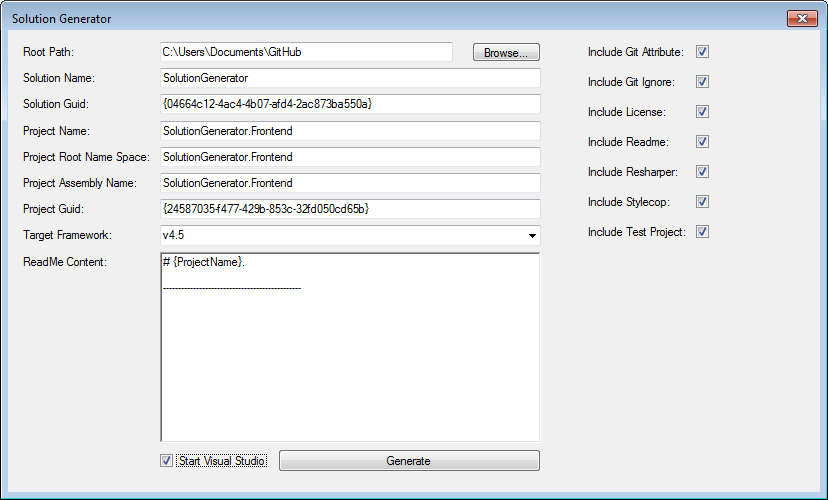
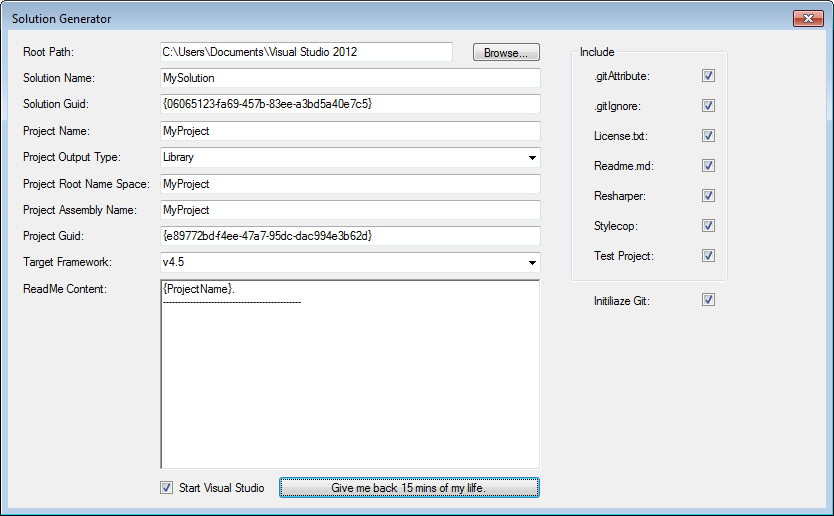
Changed position project type  + new img

diff --git a/src/SolutionGenerator.Frontend/GeneratorForm.Designer.cs b/src/SolutionGenerator.Frontend/GeneratorForm.Designer.cs
@@ -73,8 +73,8 @@ namespace SolutionGenerator.Frontend
             this.targetFrameworkComboBox = new System.Windows.Forms.ComboBox();
             this.groupBox1 = new System.Windows.Forms.GroupBox();
             this.initiliazeGitCheckBox = new System.Windows.Forms.CheckBox();
-            this.solutionModelBindingSource = new System.Windows.Forms.BindingSource(this.components);
             this.projectOutputTypeComboBox = new System.Windows.Forms.ComboBox();
+            this.solutionModelBindingSource = new System.Windows.Forms.BindingSource(this.components);
             projectAssemblyNameLabel = new System.Windows.Forms.Label();
             projectGuidLabel = new System.Windows.Forms.Label();
             projectNameLabel = new System.Windows.Forms.Label();
@@ -101,7 +101,7 @@ namespace SolutionGenerator.Frontend
             // projectAssemblyNameLabel
             // 
             projectAssemblyNameLabel.AutoSize = true;
-            projectAssemblyNameLabel.Location = new System.Drawing.Point(12, 146);
+            projectAssemblyNameLabel.Location = new System.Drawing.Point(12, 173);
             projectAssemblyNameLabel.Name = "projectAssemblyNameLabel";
             projectAssemblyNameLabel.Size = new System.Drawing.Size(121, 13);
             projectAssemblyNameLabel.TabIndex = 0;
@@ -111,7 +111,7 @@ namespace SolutionGenerator.Frontend
             // projectGuidLabel
             // 
             projectGuidLabel.AutoSize = true;
-            projectGuidLabel.Location = new System.Drawing.Point(12, 172);
+            projectGuidLabel.Location = new System.Drawing.Point(12, 199);
             projectGuidLabel.Name = "projectGuidLabel";
             projectGuidLabel.Size = new System.Drawing.Size(68, 13);
             projectGuidLabel.TabIndex = 2;
@@ -132,7 +132,7 @@ namespace SolutionGenerator.Frontend
             // projectRootNameSpaceLabel
             // 
             projectRootNameSpaceLabel.AutoSize = true;
-            projectRootNameSpaceLabel.Location = new System.Drawing.Point(12, 120);
+            projectRootNameSpaceLabel.Location = new System.Drawing.Point(12, 147);
             projectRootNameSpaceLabel.Name = "projectRootNameSpaceLabel";
             projectRootNameSpaceLabel.Size = new System.Drawing.Size(134, 13);
             projectRootNameSpaceLabel.TabIndex = 6;
@@ -249,24 +249,42 @@ namespace SolutionGenerator.Frontend
             // targetFrameworkLabel1
             // 
             targetFrameworkLabel1.AutoSize = true;
-            targetFrameworkLabel1.Location = new System.Drawing.Point(12, 198);
+            targetFrameworkLabel1.Location = new System.Drawing.Point(12, 225);
             targetFrameworkLabel1.Name = "targetFrameworkLabel1";
             targetFrameworkLabel1.Size = new System.Drawing.Size(96, 13);
             targetFrameworkLabel1.TabIndex = 35;
             targetFrameworkLabel1.Text = "Target Framework:";
             // 
+            // initiliazeGitLabel
+            // 
+            initiliazeGitLabel.AutoSize = true;
+            initiliazeGitLabel.Location = new System.Drawing.Point(583, 264);
+            initiliazeGitLabel.Name = "initiliazeGitLabel";
+            initiliazeGitLabel.Size = new System.Drawing.Size(63, 13);
+            initiliazeGitLabel.TabIndex = 37;
+            initiliazeGitLabel.Text = "Initiliaze Git:";
+            // 
+            // projectOutputTypeLabel
+            // 
+            projectOutputTypeLabel.AutoSize = true;
+            projectOutputTypeLabel.Location = new System.Drawing.Point(12, 120);
+            projectOutputTypeLabel.Name = "projectOutputTypeLabel";
+            projectOutputTypeLabel.Size = new System.Drawing.Size(105, 13);
+            projectOutputTypeLabel.TabIndex = 38;
+            projectOutputTypeLabel.Text = "Project Output Type:";
+            // 
             // projectAssemblyNameTextBox
             // 
             this.projectAssemblyNameTextBox.DataBindings.Add(new System.Windows.Forms.Binding("Text", this.solutionModelBindingSource, "ProjectAssemblyName", true));
-            this.projectAssemblyNameTextBox.Location = new System.Drawing.Point(152, 143);
+            this.projectAssemblyNameTextBox.Location = new System.Drawing.Point(152, 170);
             this.projectAssemblyNameTextBox.Name = "projectAssemblyNameTextBox";
             this.projectAssemblyNameTextBox.Size = new System.Drawing.Size(381, 20);
-            this.projectAssemblyNameTextBox.TabIndex = 5;
+            this.projectAssemblyNameTextBox.TabIndex = 6;
             // 
             // projectGuidTextBox
             // 
             this.projectGuidTextBox.DataBindings.Add(new System.Windows.Forms.Binding("Text", this.solutionModelBindingSource, "ProjectGuid", true));
-            this.projectGuidTextBox.Location = new System.Drawing.Point(152, 169);
+            this.projectGuidTextBox.Location = new System.Drawing.Point(152, 196);
             this.projectGuidTextBox.Name = "projectGuidTextBox";
             this.projectGuidTextBox.Size = new System.Drawing.Size(381, 20);
             this.projectGuidTextBox.TabIndex = 17;
@@ -282,10 +300,10 @@ namespace SolutionGenerator.Frontend
             // projectRootNameSpaceTextBox
             // 
             this.projectRootNameSpaceTextBox.DataBindings.Add(new System.Windows.Forms.Binding("Text", this.solutionModelBindingSource, "ProjectRootNameSpace", true));
-            this.projectRootNameSpaceTextBox.Location = new System.Drawing.Point(152, 117);
+            this.projectRootNameSpaceTextBox.Location = new System.Drawing.Point(152, 144);
             this.projectRootNameSpaceTextBox.Name = "projectRootNameSpaceTextBox";
             this.projectRootNameSpaceTextBox.Size = new System.Drawing.Size(381, 20);
-            this.projectRootNameSpaceTextBox.TabIndex = 4;
+            this.projectRootNameSpaceTextBox.TabIndex = 5;
             // 
             // rootPathTextBox
             // 
@@ -316,7 +334,7 @@ namespace SolutionGenerator.Frontend
             this.btnGenerate.Location = new System.Drawing.Point(270, 446);
             this.btnGenerate.Name = "btnGenerate";
             this.btnGenerate.Size = new System.Drawing.Size(263, 23);
-            this.btnGenerate.TabIndex = 9;
+            this.btnGenerate.TabIndex = 10;
             this.btnGenerate.Text = "Give me back 15 mins of my lilfe.";
             this.btnGenerate.UseVisualStyleBackColor = true;
             this.btnGenerate.Click += new System.EventHandler(this.BtnGenerateClick);
@@ -347,7 +365,7 @@ namespace SolutionGenerator.Frontend
             this.readmeRichTextBox.Location = new System.Drawing.Point(152, 249);
             this.readmeRichTextBox.Name = "readmeRichTextBox";
             this.readmeRichTextBox.Size = new System.Drawing.Size(381, 191);
-            this.readmeRichTextBox.TabIndex = 7;
+            this.readmeRichTextBox.TabIndex = 8;
             this.readmeRichTextBox.Text = "";
             // 
             // chkStartVisualStudio
@@ -356,7 +374,7 @@ namespace SolutionGenerator.Frontend
             this.chkStartVisualStudio.Location = new System.Drawing.Point(152, 450);
             this.chkStartVisualStudio.Name = "chkStartVisualStudio";
             this.chkStartVisualStudio.Size = new System.Drawing.Size(112, 17);
-            this.chkStartVisualStudio.TabIndex = 8;
+            this.chkStartVisualStudio.TabIndex = 9;
             this.chkStartVisualStudio.Text = "Start Visual Studio";
             this.chkStartVisualStudio.UseVisualStyleBackColor = true;
             // 
@@ -366,7 +384,7 @@ namespace SolutionGenerator.Frontend
             this.includeGitAttributeCheckBox.Location = new System.Drawing.Point(131, 19);
             this.includeGitAttributeCheckBox.Name = "includeGitAttributeCheckBox";
             this.includeGitAttributeCheckBox.Size = new System.Drawing.Size(21, 24);
-            this.includeGitAttributeCheckBox.TabIndex = 22;
+            this.includeGitAttributeCheckBox.TabIndex = 0;
             this.includeGitAttributeCheckBox.UseVisualStyleBackColor = true;
             // 
             // includeGitIgnoreCheckBox
@@ -375,7 +393,7 @@ namespace SolutionGenerator.Frontend
             this.includeGitIgnoreCheckBox.Location = new System.Drawing.Point(131, 49);
             this.includeGitIgnoreCheckBox.Name = "includeGitIgnoreCheckBox";
             this.includeGitIgnoreCheckBox.Size = new System.Drawing.Size(21, 24);
-            this.includeGitIgnoreCheckBox.TabIndex = 24;
+            this.includeGitIgnoreCheckBox.TabIndex = 1;
             this.includeGitIgnoreCheckBox.UseVisualStyleBackColor = true;
             // 
             // includeLicenseCheckBox
@@ -384,7 +402,7 @@ namespace SolutionGenerator.Frontend
             this.includeLicenseCheckBox.Location = new System.Drawing.Point(131, 79);
             this.includeLicenseCheckBox.Name = "includeLicenseCheckBox";
             this.includeLicenseCheckBox.Size = new System.Drawing.Size(21, 24);
-            this.includeLicenseCheckBox.TabIndex = 26;
+            this.includeLicenseCheckBox.TabIndex = 2;
             this.includeLicenseCheckBox.UseVisualStyleBackColor = true;
             // 
             // includeReadmeCheckBox
@@ -393,7 +411,7 @@ namespace SolutionGenerator.Frontend
             this.includeReadmeCheckBox.Location = new System.Drawing.Point(131, 109);
             this.includeReadmeCheckBox.Name = "includeReadmeCheckBox";
             this.includeReadmeCheckBox.Size = new System.Drawing.Size(21, 24);
-            this.includeReadmeCheckBox.TabIndex = 28;
+            this.includeReadmeCheckBox.TabIndex = 3;
             this.includeReadmeCheckBox.UseVisualStyleBackColor = true;
             // 
             // includeResharperCheckBox
@@ -402,7 +420,7 @@ namespace SolutionGenerator.Frontend
             this.includeResharperCheckBox.Location = new System.Drawing.Point(131, 139);
             this.includeResharperCheckBox.Name = "includeResharperCheckBox";
             this.includeResharperCheckBox.Size = new System.Drawing.Size(21, 24);
-            this.includeResharperCheckBox.TabIndex = 30;
+            this.includeResharperCheckBox.TabIndex = 4;
             this.includeResharperCheckBox.UseVisualStyleBackColor = true;
             // 
             // includeStylecopCheckBox
@@ -411,7 +429,7 @@ namespace SolutionGenerator.Frontend
             this.includeStylecopCheckBox.Location = new System.Drawing.Point(131, 169);
             this.includeStylecopCheckBox.Name = "includeStylecopCheckBox";
             this.includeStylecopCheckBox.Size = new System.Drawing.Size(21, 24);
-            this.includeStylecopCheckBox.TabIndex = 32;
+            this.includeStylecopCheckBox.TabIndex = 5;
             this.includeStylecopCheckBox.UseVisualStyleBackColor = true;
             // 
             // includeTestProjectCheckBox
@@ -420,7 +438,7 @@ namespace SolutionGenerator.Frontend
             this.includeTestProjectCheckBox.Location = new System.Drawing.Point(131, 199);
             this.includeTestProjectCheckBox.Name = "includeTestProjectCheckBox";
             this.includeTestProjectCheckBox.Size = new System.Drawing.Size(21, 24);
-            this.includeTestProjectCheckBox.TabIndex = 34;
+            this.includeTestProjectCheckBox.TabIndex = 6;
             this.includeTestProjectCheckBox.UseVisualStyleBackColor = true;
             // 
             // targetFrameworkComboBox
@@ -433,10 +451,10 @@ namespace SolutionGenerator.Frontend
             "v3.5",
             "v4.0",
             "v4.5"});
-            this.targetFrameworkComboBox.Location = new System.Drawing.Point(152, 195);
+            this.targetFrameworkComboBox.Location = new System.Drawing.Point(152, 222);
             this.targetFrameworkComboBox.Name = "targetFrameworkComboBox";
             this.targetFrameworkComboBox.Size = new System.Drawing.Size(381, 21);
-            this.targetFrameworkComboBox.TabIndex = 36;
+            this.targetFrameworkComboBox.TabIndex = 7;
             // 
             // groupBox1
             // 
@@ -457,7 +475,7 @@ namespace SolutionGenerator.Frontend
             this.groupBox1.Location = new System.Drawing.Point(563, 15);
             this.groupBox1.Name = "groupBox1";
             this.groupBox1.Size = new System.Drawing.Size(157, 237);
-            this.groupBox1.TabIndex = 37;
+            this.groupBox1.TabIndex = 12;
             this.groupBox1.TabStop = false;
             this.groupBox1.Text = "Include";
             // 
@@ -467,30 +485,8 @@ namespace SolutionGenerator.Frontend
             this.initiliazeGitCheckBox.Location = new System.Drawing.Point(694, 258);
             this.initiliazeGitCheckBox.Name = "initiliazeGitCheckBox";
             this.initiliazeGitCheckBox.Size = new System.Drawing.Size(104, 24);
-            this.initiliazeGitCheckBox.TabIndex = 38;
+            this.initiliazeGitCheckBox.TabIndex = 11;
             this.initiliazeGitCheckBox.UseVisualStyleBackColor = true;
-            // 
-            // initiliazeGitLabel
-            // 
-            initiliazeGitLabel.AutoSize = true;
-            initiliazeGitLabel.Location = new System.Drawing.Point(583, 264);
-            initiliazeGitLabel.Name = "initiliazeGitLabel";
-            initiliazeGitLabel.Size = new System.Drawing.Size(63, 13);
-            initiliazeGitLabel.TabIndex = 37;
-            initiliazeGitLabel.Text = "Initiliaze Git:";
-            // 
-            // solutionModelBindingSource
-            // 
-            this.solutionModelBindingSource.DataSource = typeof(SolutionGenerator.Models.SolutionModel);
-            // 
-            // projectOutputTypeLabel
-            // 
-            projectOutputTypeLabel.AutoSize = true;
-            projectOutputTypeLabel.Location = new System.Drawing.Point(12, 225);
-            projectOutputTypeLabel.Name = "projectOutputTypeLabel";
-            projectOutputTypeLabel.Size = new System.Drawing.Size(105, 13);
-            projectOutputTypeLabel.TabIndex = 38;
-            projectOutputTypeLabel.Text = "Project Output Type:";
             // 
             // projectOutputTypeComboBox
             // 
@@ -501,10 +497,14 @@ namespace SolutionGenerator.Frontend
             "WPF",
             "WinForms",
             "Console"});
-            this.projectOutputTypeComboBox.Location = new System.Drawing.Point(152, 222);
+            this.projectOutputTypeComboBox.Location = new System.Drawing.Point(152, 117);
             this.projectOutputTypeComboBox.Name = "projectOutputTypeComboBox";
             this.projectOutputTypeComboBox.Size = new System.Drawing.Size(381, 21);
-            this.projectOutputTypeComboBox.TabIndex = 39;
+            this.projectOutputTypeComboBox.TabIndex = 4;
+            // 
+            // solutionModelBindingSource
+            // 
+            this.solutionModelBindingSource.DataSource = typeof(SolutionGenerator.Models.SolutionModel);
             // 
             // GeneratorForm
             // 
